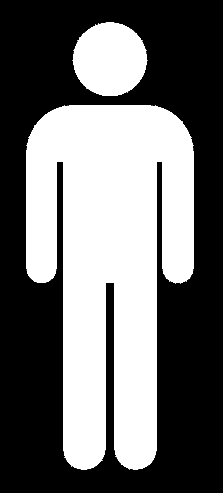
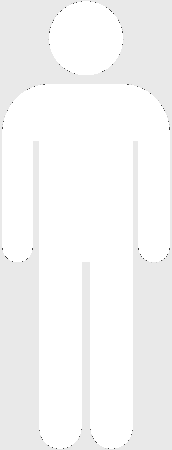
changed the legend of top middle

diff --git a/src/routes/+page.svelte b/src/routes/+page.svelte
@@ -80,7 +80,7 @@
         let res = apply_filter(unfiltered_data, ui);
         res = calc_bottom(res);
         res = calc_top(res)
-        console.log(res)
+        //console.log(res)
         return res;
     }
 
@@ -215,7 +215,7 @@
         //console.log(val)
             }
             top_m.set(element, tmp);
-            console.log(tmp)
+            //console.log(tmp)
         });
         //console.log(top_m)
         var top_m_stat = new Map([
@@ -223,7 +223,7 @@
             ["hei_max", top_m_max_hei], ["hei_min", top_m_min_hei], ["hei_diff", top_m_max_hei - top_m_min_hei],
             ["wei_max", top_m_max_wei], ["wei_min", top_m_min_wei], ["wei_diff", top_m_max_wei - top_m_min_wei]
         ]);
-        console.log(top_m_stat)
+        //console.log(top_m_stat)
 
         //--------------
         // top right
@@ -296,14 +296,14 @@
     function top_m_hei (input_data) {
         let tmp = input_data - filetered_data.get("top_m_stat").get("hei_min");
         tmp = tmp / filetered_data.get("top_m_stat").get("hei_diff");
-        console.log("hei", tmp+1)
+        //console.log("hei", tmp+1)
         return 1 + tmp;
     }
 
     function top_m_wei (input_data) {
         let tmp = input_data - filetered_data.get("top_m_stat").get("wei_min");
         tmp = tmp / filetered_data.get("top_m_stat").get("wei_diff");
-        console.log("wei", tmp+1)
+        //console.log("wei", tmp+1)
         return 1 + tmp;
     }
 
@@ -504,6 +504,20 @@
     let comp_color = bot_color[6];
     let grey_color = "grey";
     //console.log(filetered_data.get("bottom").get(1+""))
+
+    function scale_top_m_color (a) {
+        let red = 255;
+        let green = 153;
+        let blue = 102;
+
+        let r_diff = ((red +((137 - red) * a))+"").split(".")[0];
+        let g_diff = ((green + ((137 - green) * a))+"").split(".")[0];
+        let b_diff = ((blue + ((137 - blue) * a))+"").split(".")[0];
+
+        let res = "rgb(" + (r_diff) + ", " + g_diff + ", " + b_diff + ")";
+        console.log(a + ": " + res)/* TODO: delete */
+        return res
+    }
     
 </script>
 
@@ -630,9 +644,9 @@
             <div class="mid_pic" style="">
                 {#if row == 2 && col == 2}
                 <!-- <div class="top_m_sports">Legend</div> -->
-                <svg class="" style="margin-top: 3px; left: 3px; position: absolute; transform: translate(-5%, 5%);" height="98%" width="98%">
+                <svg class="" style="margin-top: 3px; left: 3px; position: absolute; transform: translate(-5%, 5%); font-size: 12px;" height="98%" width="98%">
 
-                    <rect style="fill:{comp_color}; width:30%; height:45%; z-index: -50;top:80%;left: 20%;" x="20%" y="35%" />
+                    <rect style="fill:{scale_top_m_color(0.5)}; width:30%; height:45%; z-index: -50;top:80%;left: 20%;" x="21%" y="33.5%" />
                     
                     <!-- height --><!-- weight -->
                      <line class="axis" x1="20%" x2="20%" y1="15%" y2="85%"/> 
@@ -660,9 +674,15 @@
                     <text x="30%" y="38%" style="font-size: 12px;">signal the age:</text>
                     <text x="30%" y="48%" style="font-size: 12px;">top: {(""+filetered_data.get("top_m_stat").get("age_min")).split(".")[0]}</text>
                     <text x="30%" y="58%" style="font-size: 12px;">bottom: {(""+filetered_data.get("top_m_stat").get("age_max")).split(".")[0]}</text> -->
+
+                    <text x="70%" y="11%" style="">Age:</text>
+                    <rect style="height: 1em; width:1em; fill: {scale_top_m_color(0)}" x="70%" y="21%" />
+                    <text x="80%" y="30%" style="">{(""+filetered_data.get("top_m_stat").get("age_min")).split(".")[0]}</text>
+                    <rect style="height: 1em; width:1em; fill: {scale_top_m_color(1)}" x="70%" y="41%" />
+                    <text x="80%" y="50.5%" style="">{(""+filetered_data.get("top_m_stat").get("age_max")).split(".")[0]}</text>
                     
                 </svg>
-                <img src="images/top_m_man.png" style="position:absolute; width:30%; height:45%; z-index: 50;bottom:14%;left: 16%;" alt=""/>
+                <img src="images/top_m_man.png" style="position:absolute; width:30%; height:45%; z-index: 50;bottom:15%;left: 16.5%;" alt=""/>
                 {:else}
                 
                 <div class="top_m_sports">{filetered_data.get("top_m").get(transform_top_m(row, col) +"").get("sport")}</div>
@@ -671,9 +691,9 @@
                     margin-left:{(100-(top_m_wei(filetered_data.get("top_m").get(transform_top_m(row, col) +"").get("wei")) * 20))/2}%;
                     margin-top: 5%; position: absolute;">
                     <svg style="width:100%; height:100%; position: absolute; transform: translateX(-50%);">
-                        <rect style="fill:{comp_color}; width:100%; height:100%" x="0px" y="0px" />
-                        <rect style="fill:{grey_color}; width:100%; 
-                            height:{top_m_age(filetered_data.get("top_m").get(transform_top_m(row, col) +"").get("age")) * 100}%" x="0px" y="0px" />
+                        <rect style="fill:{scale_top_m_color(top_m_age(filetered_data.get("top_m").get(transform_top_m(row, col) +"").get("age")))}; width:100%; height:100%" x="0px" y="0px" />
+                        <!-- <rect style="fill:{grey_color}; width:100%; 
+                            height:{top_m_age(filetered_data.get("top_m").get(transform_top_m(row, col) +"").get("age")) * 100}%" x="0px" y="0px" /> -->
                     </svg>
                     <img class="" src="images/top_m_man.png" width="100%" height="100%" style="top:0px; position: absolute;transform: translateX(-50%);" alt="background image" />
                     
